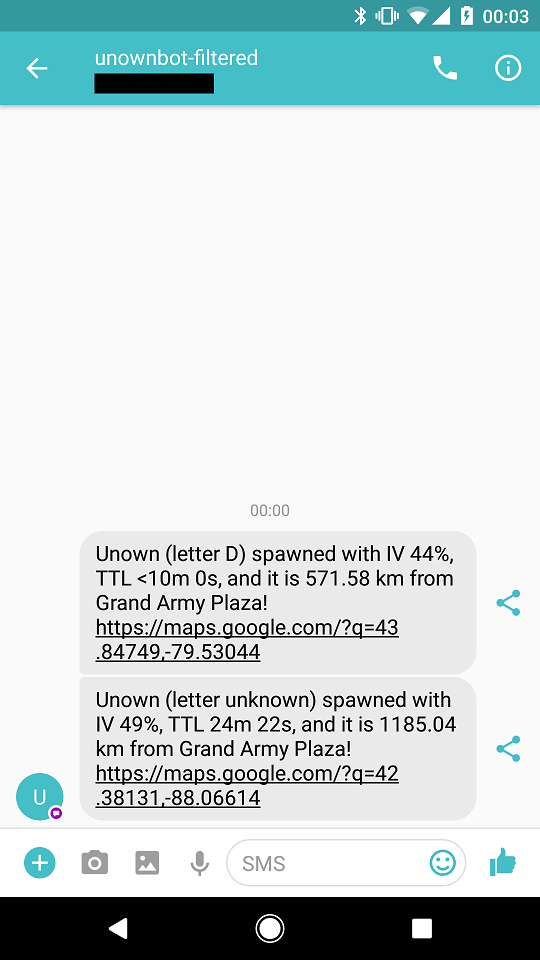
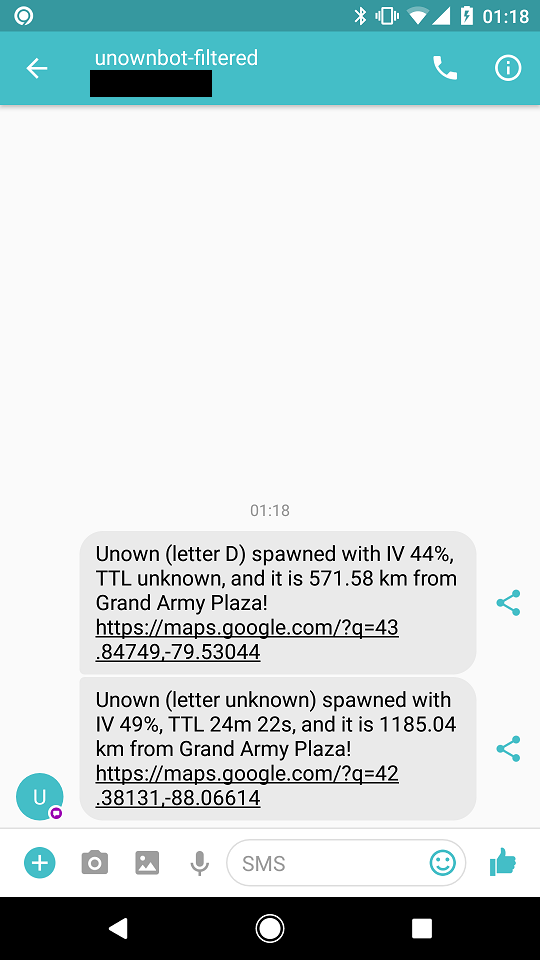
A TTL of "<10m 0s" actually means unknown TTL
Marking it as such will avoid the feeling of despair when you realize you can't get all the way uptown in less than ten minutes.

(Source: Discord chat with @UnownBot author.)

diff --git a/test/happenings.js b/test/happenings.js
@@ -5,6 +5,7 @@ const createHappenings = require("../lib/happenings.js");
 const fixtureTweets = require("./fixtures/tweets.json");
 
 const fixtureTweet = fixtureTweets[1];
+const fixtureTweetWithGoodTTL = fixtureTweets[4];
 const fixtureTweetNoIVOrLetter = fixtureTweets[0];
 const nonUnownTweet = fixtureTweets[5];
 
@@ -54,7 +55,7 @@ test("emits a 'spawn' event when an Unown spawns without IV or letter informatio
       [{
         iv: "unknown",
         letter: "unknown",
-        ttl: "<10m 0s",
+        ttl: "unknown",
         url: "https://maps.google.com/?q=35.41025,139.93000"
       }]
     );
@@ -79,7 +80,7 @@ test("emits a 'spawn' event when an Unown spawns with IV and letter information"
       [{
         iv: "60%",
         letter: "V",
-        ttl: "<10m 0s",
+        ttl: "unknown",
         url: "https://maps.google.com/?q=-37.78350,144.95107"
       }]
     );
@@ -89,6 +90,31 @@ test("emits a 'spawn' event when an Unown spawns with IV and letter information"
   });
 
   fakeStream.emit("tweet", fixtureTweet);
+});
+
+test("emits a 'spawn' event when an Unown spawns with a known TTL", t => {
+  t.plan(2);
+
+  const fakeStream = new EventEmitter();
+  const happenings = createHappenings(fakeStream, "837234225715818497", []);
+
+  happenings.on("spawn", (...args) => {
+    t.pass("'spawn' event must be emitted");
+    t.deepEqual(
+      args,
+      [{
+        iv: "49%",
+        letter: "unknown",
+        ttl: "24m 22s",
+        url: "https://maps.google.com/?q=42.38131,-88.06614"
+      }]
+    );
+  });
+  happenings.on("error", err => {
+    t.end(err);
+  });
+
+  fakeStream.emit("tweet", fixtureTweetWithGoodTTL);
 });
 
 test("does not emit an event if the tweet is from a different user", t => {
@@ -152,7 +178,7 @@ test.cb("emits a 'spawn within range' event when an Unown spawns within range wi
       [{
         iv: "unknown",
         letter: "unknown",
-        ttl: "<10m 0s",
+        ttl: "unknown",
         url: "https://maps.google.com/?q=35.41025,139.93000",
         distance: 2.9481892766644737,
         closeTo: "Home"
@@ -177,7 +203,7 @@ test.cb("emits a 'spawn within range' event when an Unown spawns within range wi
       label: "Home",
       latitude: -37.7,
       longitude: 144.9,
-      radius: 210
+      radius: 20
     }
   ]);
 
@@ -188,7 +214,7 @@ test.cb("emits a 'spawn within range' event when an Unown spawns within range wi
       [{
         iv: "60%",
         letter: "V",
-        ttl: "<10m 0s",
+        ttl: "unknown",
         url: "https://maps.google.com/?q=-37.78350,144.95107",
         distance: 10.31371088139344,
         closeTo: "Home"
@@ -202,6 +228,40 @@ test.cb("emits a 'spawn within range' event when an Unown spawns within range wi
   });
 
   fakeStream.emit("tweet", fixtureTweet);
+});
+
+test("emits a 'spawn within range' event when an Unown spawns within range with a known TTL", t => {
+  t.plan(2);
+
+  const fakeStream = new EventEmitter();
+  const happenings = createHappenings(fakeStream, "837234225715818497", [
+    {
+      label: "Home",
+      latitude: 42.3,
+      longitude: -88.0,
+      radius: 20
+    }
+  ]);
+
+  happenings.on("spawn within range", (...args) => {
+    t.pass("'spawn within range' event must be emitted");
+    t.deepEqual(
+      args,
+      [{
+        iv: "49%",
+        letter: "unknown",
+        ttl: "24m 22s",
+        url: "https://maps.google.com/?q=42.38131,-88.06614",
+        distance: 10.54964604801562,
+        closeTo: "Home"
+      }]
+    );
+  });
+  happenings.on("error", err => {
+    t.end(err);
+  });
+
+  fakeStream.emit("tweet", fixtureTweetWithGoodTTL);
 });
 
 test("does not emit 'spawn within range' event when an Unown spawns outside of the range", t => {

diff --git a/lib/happenings.js b/lib/happenings.js
@@ -53,7 +53,7 @@ function parseTweet(tweet) {
   const url = tweet.entities.urls[0].expanded_url;
   const letter = rawLetter === "" ? "unknown" : rawLetter[1];
   const iv = rawIV === "-" ? "unknown" : rawIV;
-  const ttl = rawTTL.replace(/&lt;/g, "<"); // selective HTML decoding
+  const ttl = rawTTL === "&lt;10m 0s" ? "unknown" : rawTTL;
 
   return { iv, letter, ttl, url };
 }
